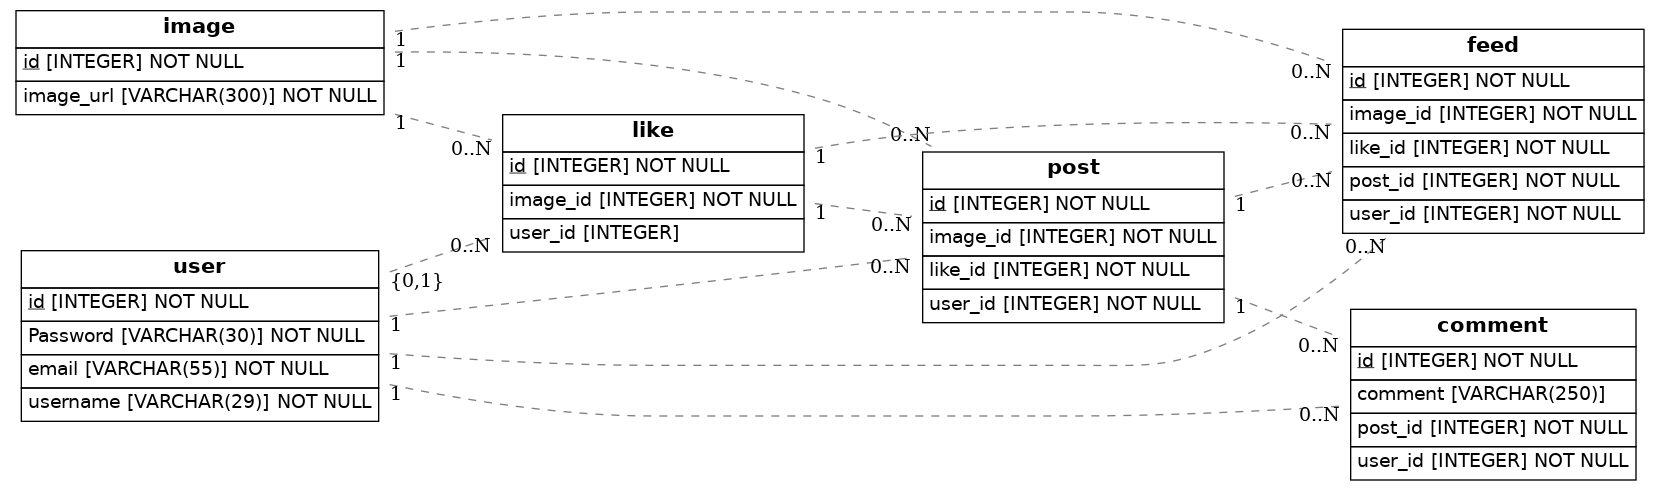
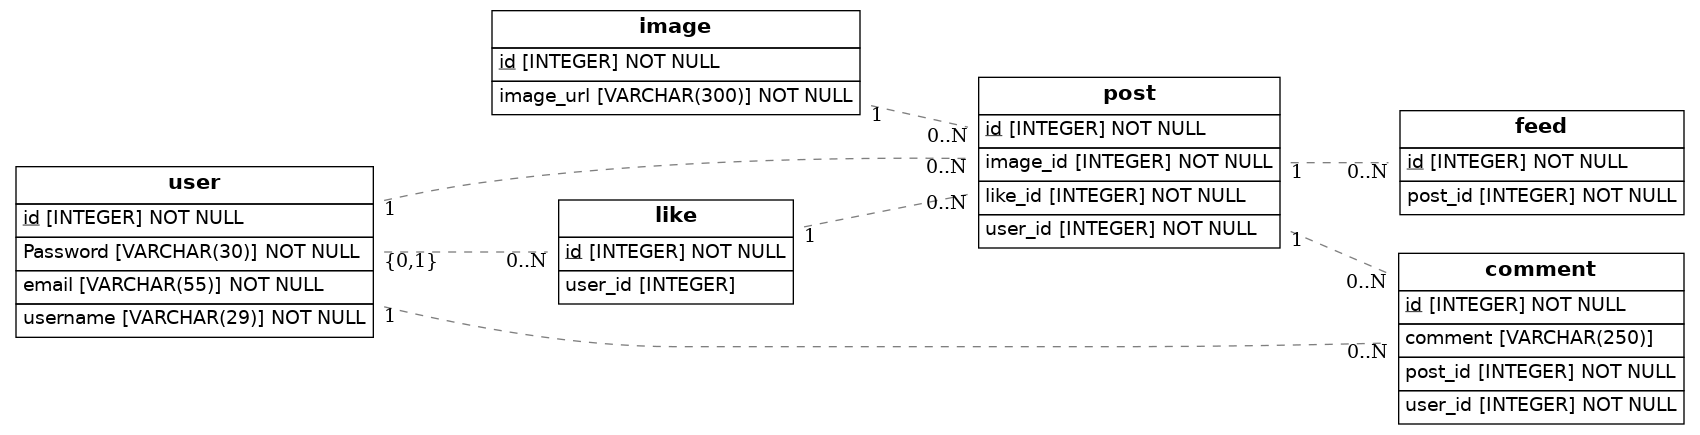
UPDATE instagram data model

diff --git a/src/models.py b/src/models.py
@@ -25,8 +25,6 @@ class Like(Base):
     user_id = Column(Integer, ForeignKey('user.id'))
     user = relationship(User)
 
-    image_id = Column(Integer, ForeignKey('image.id'), nullable = False, default = False)
-    image = relationship(Image)
 class Post(Base):
     __tablename__ = "post"
     id = Column(Integer, primary_key = True)
@@ -55,17 +53,8 @@ class Feed(Base):
     __tablename__ = "feed"
     id = Column(Integer, primary_key = True)
 
-    user_id = Column(Integer, ForeignKey('user.id'), nullable = False)
-    user = relationship(User)
-
     post_id = Column(Integer, ForeignKey('post.id'), nullable = False)
     post = relationship(Post)
-
-    image_id = Column(Integer, ForeignKey('image.id'), nullable = False)
-    image = relationship(Image)
-
-    like_id = Column(Integer, ForeignKey('like.id'), nullable = False)
-    like = relationship(Like)
 
 
 ## Draw from SQLAlchemy base
